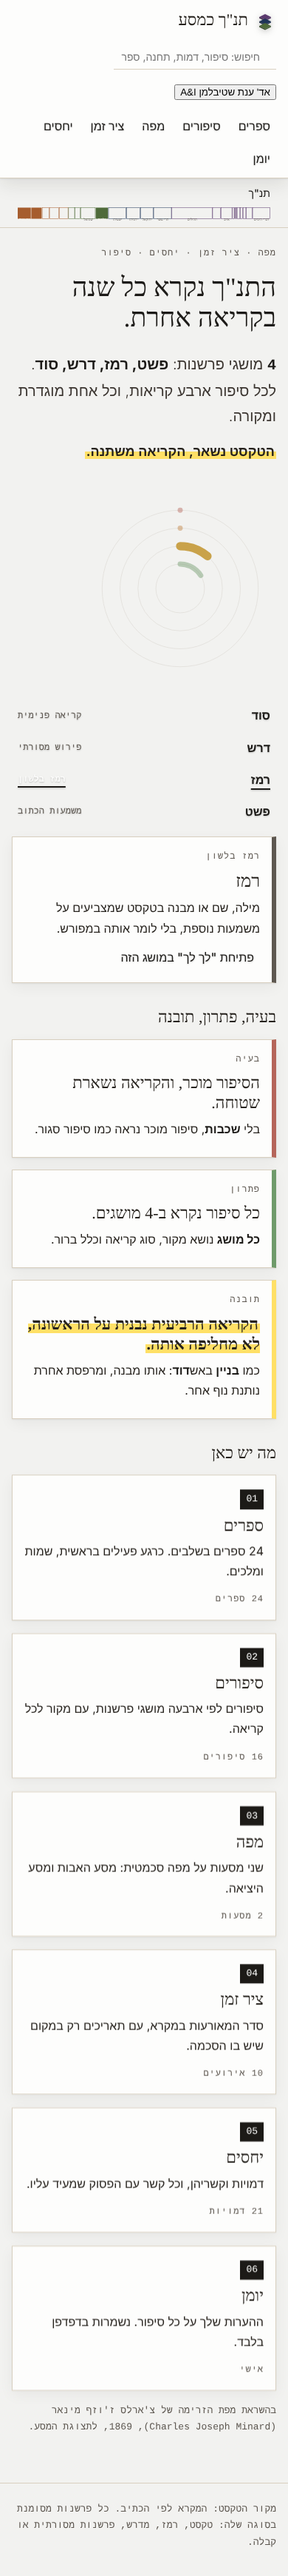
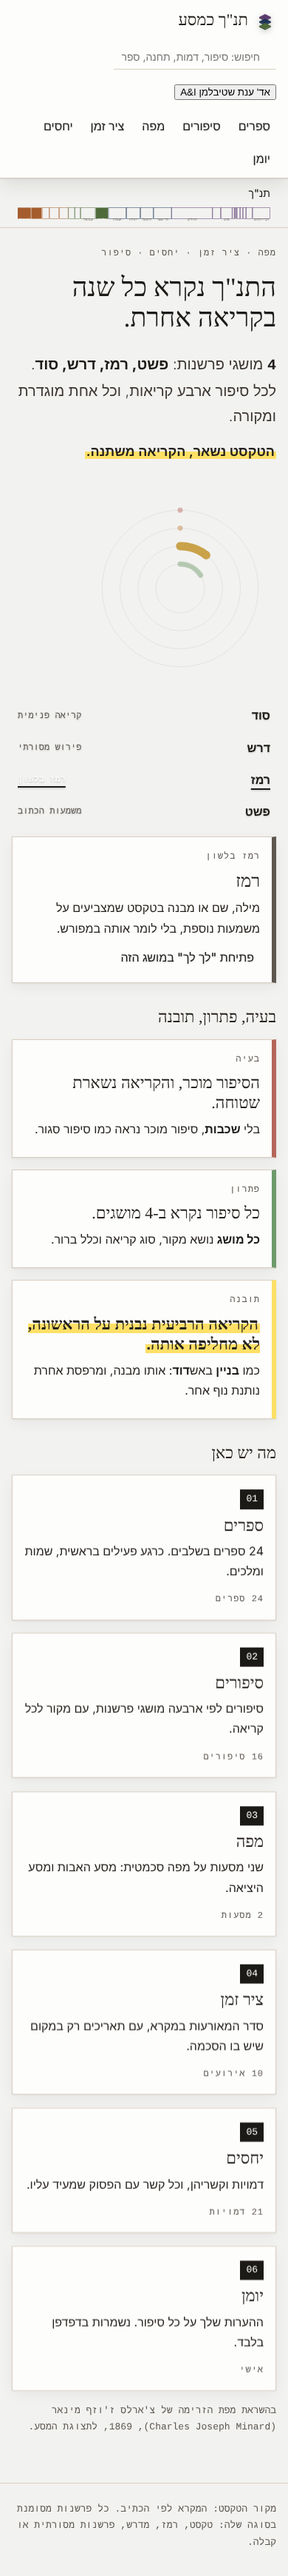
Satellite image under the map (NASA GIBS, MODIS 10.09.2020), toggle on the stage
Claude-Session: https://claude.ai/code/session_018qeN17mCFRaqmZ26WBzJgY

Changed region(s): [[0.8, 0.7138, 0.9231, 0.7448], [0.8615, 0.869, 0.8923, 0.9], [0.8615, 0.8069, 0.8923, 0.8379]]

diff --git a/src/components/MapBase.tsx b/src/components/MapBase.tsx
@@ -1,4 +1,6 @@
 import { GEO_LAND, GEO_LAKES, GEO_RIVERS, GEO_PROJECT, GEO_VIEW } from '../content/geo-data';
+import { SAT_CREDIT } from '../content/satellite';
+import SatelliteLayer from './SatelliteLayer';
 
 // Every label here is placed by real coordinates. Source of the geometry: Natural Earth (public domain).
 const at = (lon: number, lat: number) => GEO_PROJECT(lon, lat);
@@ -26,13 +28,21 @@ const LABELS: Label[] = [
   { lon: 32.1, lat: 27.9, text: 'הנילוס', kind: 'river' },
 ];
 
-export default function MapBase() {
+// With the satellite on, the drawn land, sea and rivers are hidden, because the image already shows them.
+// The sea colour stays underneath as a fallback if the image does not load. Labels and the compass stay.
+export default function MapBase({ satellite = false }: { satellite?: boolean }) {
   return (
     <g className="map-base" aria-hidden="true">
       <rect x={-200} y={-200} width={1400} height={1000} className="map-sea" />
-      <path d={GEO_LAND} className="map-land" />
-      <path d={GEO_LAKES} className="map-lake" />
-      <path d={GEO_RIVERS} className="map-river" />
+      {satellite ? (
+        <SatelliteLayer />
+      ) : (
+        <>
+          <path d={GEO_LAND} className="map-land" />
+          <path d={GEO_LAKES} className="map-lake" />
+          <path d={GEO_RIVERS} className="map-river" />
+        </>
+      )}
       {LABELS.map((l) => {
         const [x, y] = at(l.lon, l.lat);
         return (
@@ -49,7 +59,9 @@ export default function MapBase() {
         </text>
       </g>
       <text x={20} y={VIEW_H - 14} className="map-scale-note" style={{ direction: 'rtl' }}>
-        מפה גאוגרפית פשוטה. קווי החוף והנהרות מ-Natural Earth (נחלת הכלל). המיקומים המסומנים משוערים.
+        {satellite
+          ? `${SAT_CREDIT} המיקומים המסומנים משוערים.`
+          : 'מפה גאוגרפית פשוטה. קווי החוף והנהרות מ-Natural Earth (נחלת הכלל). המיקומים המסומנים משוערים.'}
       </text>
     </g>
   );

diff --git a/src/components/Stage.tsx b/src/components/Stage.tsx
@@ -30,6 +30,7 @@ export default function Stage({
 }) {
   const stories = orderStories(unordered);
   const [zoom, setZoom] = useState<'wide' | 'close'>('wide');
+  const [satellite, setSatellite] = useState(true);
   const [playToken, setPlayToken] = useState(0);
   const focus = stories.find((s) => s.id === focusId) ?? stories[0];
   const storyIds = stories.map((s) => s.id);
@@ -55,13 +56,16 @@ export default function Stage({
                 המזרח הקרוב
               </button>
               <button type="button" className="chip press" onClick={() => setPlayToken((n) => n + 1)}>הפעל מסע</button>
+              <button type="button" className={`chip press${satellite ? ' is-active' : ''}`} aria-pressed={satellite} onClick={() => setSatellite((v) => !v)}>
+                תמונת לוויין
+              </button>
               <button type="button" className={`chip press${zoom === 'close' ? ' is-active' : ''}`} aria-pressed={zoom === 'close'} onClick={() => setZoom('close')}>
                 ארץ ישראל מקרוב
               </button>
             </div>
           </div>
           <div className="map-frame">
-            <RouteMap route={mapRoute} selectedId={null} onSelect={() => undefined} playToken={playToken} highlightStopIds={focusStopIds.length ? focusStopIds : stopIds} zoom={zoom} />
+            <RouteMap route={mapRoute} selectedId={null} onSelect={() => undefined} playToken={playToken} highlightStopIds={focusStopIds.length ? focusStopIds : stopIds} zoom={zoom} satellite={satellite} />
           </div>
         </section>
 

diff --git a/src/components/RouteMap.tsx b/src/components/RouteMap.tsx
@@ -18,9 +18,11 @@ interface Props {
   highlightStopIds?: string[];
   // 'wide' shows the whole region, 'close' the land of Israel.
   zoom?: 'wide' | 'close';
+  // Satellite image under the routes. On by default; the reader can switch it off for the drawn map.
+  satellite?: boolean;
 }
 
-export default function RouteMap({ route, selectedId, onSelect, playToken, highlightStopIds = [], zoom = 'wide' }: Props) {
+export default function RouteMap({ route, selectedId, onSelect, playToken, highlightStopIds = [], zoom = 'wide', satellite = true }: Props) {
   const view = zoom === 'close' ? CLOSE_VIEW : MAP_VIEW;
   const pz = usePanZoom(view);
   // The close-up is zoomed in, so labels and markers scale down to keep their proportion.
@@ -59,7 +61,7 @@ export default function RouteMap({ route, selectedId, onSelect, playToken, highl
       <svg
         ref={pz.ref}
         viewBox={pz.viewBox}
-        className="map-svg"
+        className={`map-svg${satellite ? ' is-sat' : ''}`}
         role="img"
         aria-labelledby="map-title"
         style={{ direction: 'ltr', touchAction: 'none', cursor: 'grab' }}
@@ -70,7 +72,7 @@ export default function RouteMap({ route, selectedId, onSelect, playToken, highl
         onDoubleClick={pz.reset}
       >
         <title id="map-title">{`מפה סכמטית: ${route.he}`}</title>
-        <MapBase />
+        <MapBase satellite={satellite} />
 
         {/* Both routes are drawn; the chosen one is full strength. */}
         {ROUTES.map((r) => {

diff --git a/src/content/satellite.ts b/src/content/satellite.ts
@@ -1,0 +1,29 @@
+// Satellite image of the region, for the map. Source: NASA GIBS (Global Imagery Browse Services),
+// MODIS Terra true colour, 10 September 2020. NASA imagery is public domain (נחלת הכלל).
+// The image is requested for the same box as the map (lon 29–48, lat 26–38), so it lines up with the vector map.
+// Resolution is about 250 m per pixel. It shows the land, sea, rivers and the Nile delta, not individual sites.
+// Individual sites (Tell es-Saba, Beitin, Qantir and others) are documented in the stop notes, not in the image.
+
+export const SAT_LAYER = 'MODIS_Terra_CorrectedReflectance_TrueColor';
+export const SAT_DATE = '2020-09-10';
+export const SAT_BOUNDS = { lon0: 29, lon1: 48, lat0: 26, lat1: 38 } as const;
+
+// WMS 1.1.1 with EPSG:4326 takes BBOX as lon,lat,lon,lat. The image is 2x the view size, for sharpness.
+export function satUrl(): string {
+  const p = new URLSearchParams({
+    SERVICE: 'WMS',
+    REQUEST: 'GetMap',
+    VERSION: '1.1.1',
+    LAYERS: SAT_LAYER,
+    STYLES: '',
+    SRS: 'EPSG:4326',
+    BBOX: `${SAT_BOUNDS.lon0},${SAT_BOUNDS.lat0},${SAT_BOUNDS.lon1},${SAT_BOUNDS.lat1}`,
+    WIDTH: '1676',
+    HEIGHT: '1248',
+    FORMAT: 'image/jpeg',
+    TIME: SAT_DATE,
+  });
+  return `https://gibs.earthdata.nasa.gov/wms/epsg4326/best/wms.cgi?${p.toString()}`;
+}
+
+export const SAT_CREDIT = 'תמונת לוויין: NASA GIBS, MODIS Terra, 10.09.2020, נחלת הכלל.';

diff --git a/src/components/SatelliteLayer.tsx b/src/components/SatelliteLayer.tsx
@@ -1,0 +1,14 @@
+import { GEO_PROJECT } from '../content/geo-data';
+import { SAT_BOUNDS, satUrl } from '../content/satellite';
+
+// The satellite image, placed by the same projection as the vector map, so every point lines up.
+// Top-left is (lon0, lat1); bottom-right is (lon1, lat0).
+export default function SatelliteLayer() {
+  const [x, y] = GEO_PROJECT(SAT_BOUNDS.lon0, SAT_BOUNDS.lat1);
+  const [x2, y2] = GEO_PROJECT(SAT_BOUNDS.lon1, SAT_BOUNDS.lat0);
+  return (
+    <g className="map-satellite" aria-hidden="true">
+      <image href={satUrl()} x={x} y={y} width={x2 - x} height={y2 - y} preserveAspectRatio="none" />
+    </g>
+  );
+}

diff --git a/src/styles.css b/src/styles.css
@@ -2112,3 +2112,20 @@ h3 {
 .global-rail .seq-legend {
   display: none;
 }
+
+/* Satellite mode: labels get a dark halo so they stay readable on the image. */
+.map-svg.is-sat .geo-label {
+  fill: #fbf7ee;
+  stroke: rgba(30, 28, 25, 0.85);
+  stroke-width: 3.5px;
+}
+.map-svg.is-sat .geo-water {
+  fill: #cfe6f5;
+  stroke: rgba(20, 30, 40, 0.9);
+}
+.map-svg.is-sat .map-scale-note {
+  fill: #fbf7ee;
+  paint-order: stroke;
+  stroke: rgba(30, 28, 25, 0.85);
+  stroke-width: 3px;
+}

diff --git a/CLAUDE.md b/CLAUDE.md
@@ -37,6 +37,7 @@
 
 - 31.10.2026: שלב 1 מאושר על ידי ענת. נוספו עשרה סיפורים מבראשית ושמות, דף ספרים עם 24 ספרים בארבעה חלקים, ופעילים רק שלושה ספרים (בראשית, שמות, מלכים). שאר הספרים מסומנים כ'ממתין לשלב'.
 - 01.11.2026: כללי תצוגה חדשים: שמות דו-לשוניים (עברית מודגשת, לועזית קטנה ובהירה), ומקור קטן ואפור. נוסף בנק פתרונות ב-Claude-GH, ו-CLAUDE.md הפנה אליו.
+- 01.11.2026: תמונת לוויין במפה. מקור: NASA GIBS, MODIS Terra, צבע טבעי, 10.09.2020, נחלת הכלל. המתג "תמונת לוויין" ב-Stage, דלוק כברירת מחדל. קווי החוף והנהרות הווקטוריים מוסתרים כשהתמונה דלוקה, והתוויות מקבלות הילה כהה.
 
 ## למדנו בבנייה
 - Playwright לא מגיע ל-vercel.app בסביבת הענן. הבדיקה מחליפה את `ai-menu.js` בשלד מקומי.
@@ -45,3 +46,6 @@
 - סיפורי ספר מוגדרים לפי שדה `book` בכל סיפור, ונשמרים בקובץ נפרד לכל שלב.
 - אנימציה שמתחילה מ-opacity 0 ונפתחת בגלילה נשארת שקופה בצילום מסך מלא. מציגים את התוכן ומאנימים רק את התזוזה.
 - פתרונות לבעיות שחזרו (Vercel, Playwright, RTL, Commons, שיבוט, pkill): ב-Claude-GH בקובץ `docs/solutions-bank.md`. לפני פתרון בעיה חדשה קוראים אותו.
+- תמונת לוויין מ-GIBS (WMS, EPSG:4326, BBOX כמו המפה) לא דורשת מפתח, אבל דורשת פרמטר `TIME`. בלי אותו היא שחורה.
+- תאריך מסוים משאיר פער נתונים: משולש שחור בפינה. בודקים כמה תאריכים לפני בחירה, וצופים בתמונה לפני מסירה. 10.09.2020 נקי.
+- תמונה ב-SVG מיושרת לוקטור לפי אותה הטלה, כשהיא מחושבת מאותן פונקציות (`GEO_PROJECT`), ולא לפי הערכה.
